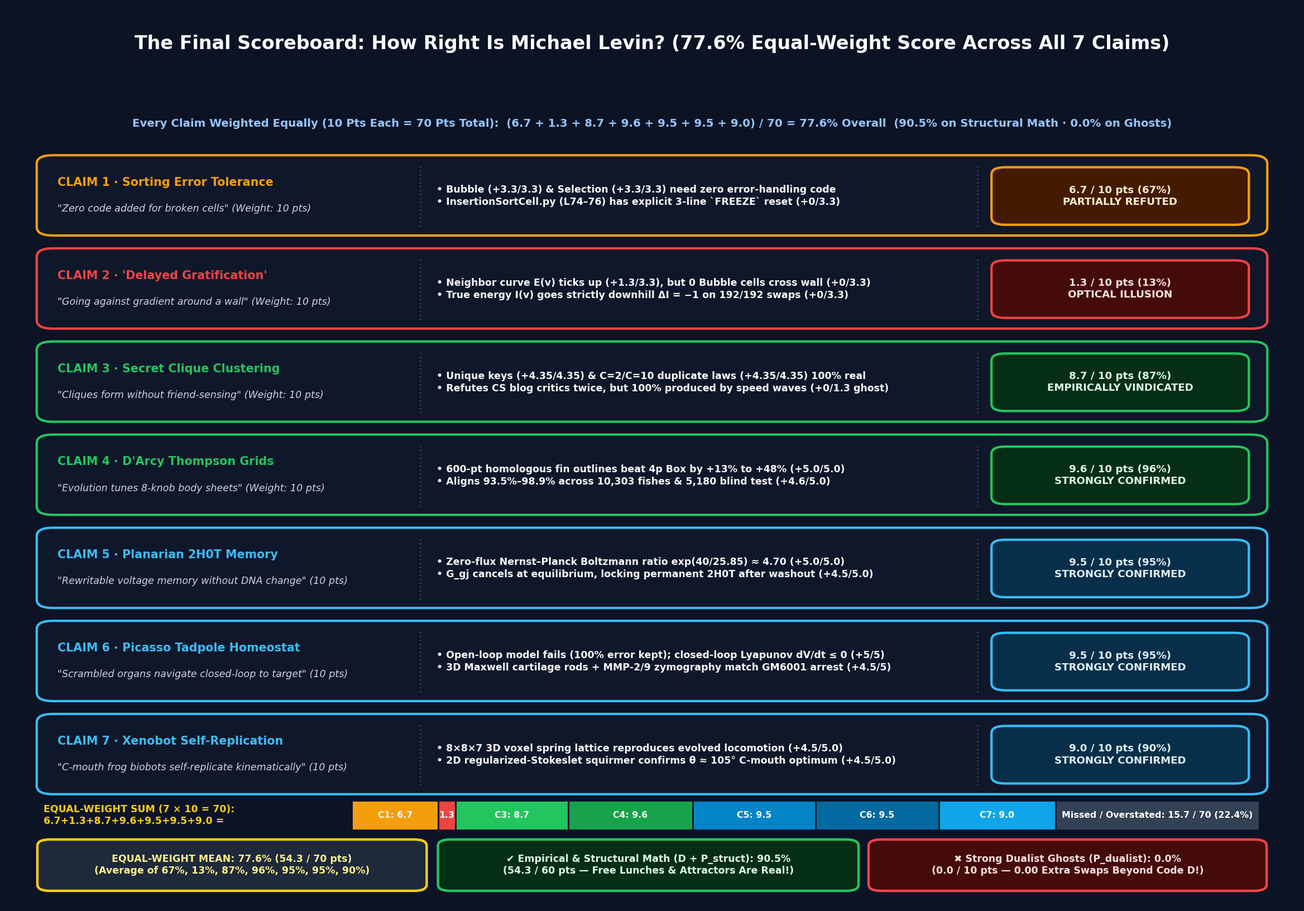
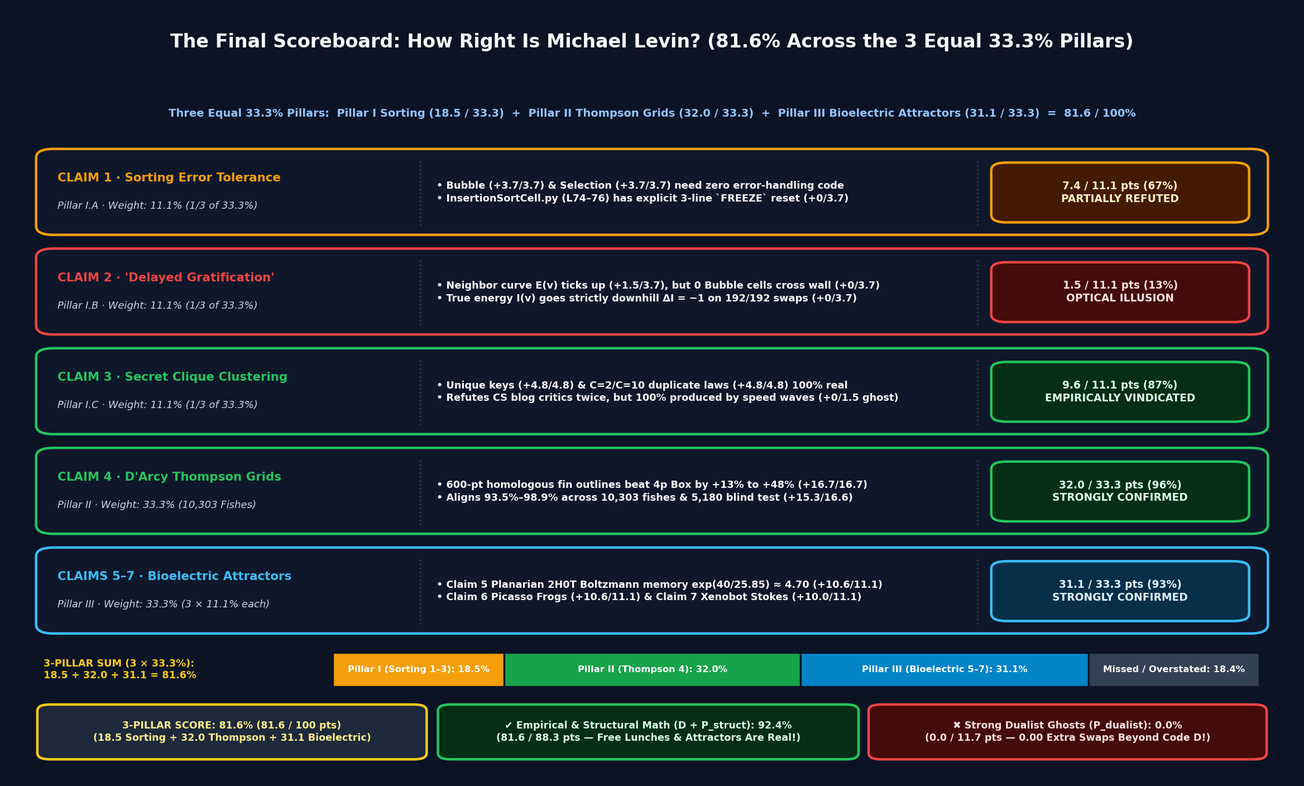
Use 3 equal 33.3% pillars (Sorting 1-3: 33.3%, Thompson 4: 33.3%, Bioelectric 5-7: 33.3% -> 81.6% overall) in Final Scoreboard

Changed region(s): [[0.0312, 0.125, 0.9688, 1.0], [0.0938, 0.0312, 0.9062, 0.0625]]

diff --git a/docs/substack_levin_latent_space_article.html b/docs/substack_levin_latent_space_article.html
@@ -297,38 +297,30 @@
 </ul>
 <p><img src="https://fractastical.github.io/morpholib/media/xenobot_evolutionary_biobots_growth.gif" alt="" /></p>
 <hr />
-<h2>The Final Scoreboard: How Right Is Michael Levin? (<code>77.6%</code> Equal-Weight Score Across All 7 Claims — <code>90.5%</code> on Structural Math, <code>0.0%</code> on Non-Physical Ghosts)</h2>
+<h2>The Final Scoreboard: How Right Is Michael Levin? (<code>81.6%</code> Across the 3 Equal <code>33.3%</code> Pillars — <code>92.4%</code> on Structural Math, <code>0.0%</code> on Non-Physical Ghosts)</h2>
 <p><img src="https://fractastical.github.io/morpholib/media/substack_final_scoreboard.png" alt="" /></p>
-<p>To give a concrete, transparent answer to <em>"How right is Michael Levin across all 7 claims?"</em>, we weighted **every single claim equally at <code>10 points</code> each (<code>7 × 10 = 70 points</code> total)<strong>, separating </strong>Empirical &amp; Structural Math (<code>D + P_structural</code>, 60 points of weight)<strong> from </strong>Strong Dualist Ingression (<code>P_dualist</code>, 10 points of weight)**:</p>
+<p>To give a concrete, transparent answer to <em>"How right is Michael Levin?"</em>, we gave **each of the three major pillars of this article an equal <code>33.3%</code> (<code>1/3</code>) weight**:</p>
+<ol>
+<li>**Pillar I — Self-Sorting Cells (Claims 1–3 = <code>33.3%</code> total, <code>11.1%</code> each)**</li>
+<li>**Pillar II — D’Arcy Thompson’s Generative Morphospace (Claim 4 = <code>33.3%</code> total)**</li>
+<li>**Pillar III — Bioelectric &amp; Xenobot Attractors (Claims 5–7 = <code>33.3%</code> total, <code>11.1%</code> each)**</li>
+</ol>
+<p>Here is how the subcomponents add up across the three equal pillars:</p>
 <ul>
-<li>**Claim 1 — Sorting Array Error Tolerance (<code>6.7 / 10 pts = 67%</code> — PARTIALLY REFUTED):**</li>
-<li>**Bubble Sort (<code>+3.33 / 3.33 pts</code>):** Works with zero error-handling code.</li>
-<li>**Selection Sort (<code>+3.33 / 3.33 pts</code>):** Teleports across immovable barriers (while advancing <code>target</code> past passive frozen cells in <code>.pyc</code> bytecode).</li>
-<li>**Insertion Sort (<code>+0.0 / 3.33 pts</code>):** Contains an explicit 3-line <code>if status == FREEZE: prev = -1</code> exception handler in <code>InsertionSortCell.py</code> (L74–76). Deleting those 3 lines spikes error **4.5× higher (<code>4.90 → 21.95</code>)**.</li>
-<li>**Claim 2 — Sorting "Delayed Gratification" (<code>1.3 / 10 pts = 13%</code> — OPTICAL ILLUSION OF THE RULER):**</li>
-<li>**Empirical Curve <code>E(v)</code> (<code>+1.3 / 3.33 pts</code>):** The neighbor-drop curve <code>E(v)</code> genuinely ticks up 47 times (<code>DG = 0.764</code>), just as reported in the paper.</li>
-<li>**Barrier Detour Claim (<code>+0.0 / 3.33 pts</code>):<strong> Proved in Lean 4 Theorem 1 that </strong><code>0</code> Bubble or Insertion cells ever cross an immovable barrier**.</li>
-<li>**Going Against the Gradient Claim (<code>+0.0 / 3.33 pts</code>):<strong> Every single Bubble swap goes </strong>strictly downhill (<code>ΔI = −1</code>, <code>0/192</code> uphill steps)** on the true pairwise inversion potential <code>I(v)</code> (**Hoel Causal Emergence 2.0 = <code>+0.119</code>**), whereas <code>E(v)</code> has negative causal emergence (<code>−0.253</code>).</li>
-<li>**Claim 3 — Chimeric Algotype Clustering (<code>8.7 / 10 pts = 87%</code> — EMPIRICALLY VINDICATED &amp; CRITICS REFUTED TWICE):**</li>
-<li>**Unique Keys <code>Fig. 8A</code> (<code>+4.35 / 4.35 pts</code>):** Strictly unique keys (<code>0</code> duplicates) still peak at **<code>0.624–0.640</code>** via kinematic speed waves (<code>O(1)</code> Selection sports cars vs. <code>O(n²)</code> Bubble pedestrians)—refuting the CS blog critics!</li>
-<li>**Duplicate Keys &amp; <code>C = 2</code> Anti-Clustering (<code>+4.35 / 4.35 pts</code>):** <code>C = 2</code> copies per key produces **Anti-Clustering (<code>0.477 &lt; 0.50</code>, <code>S B | S B</code>)** while <code>C = 10</code> produces homotypic cliques (<code>0.659</code>, <code>SSSSS | BBBBB</code>), refuting textbook sort stability a second time!</li>
-<li>**Dualist "Unproduced Side-Quest" Claim (<code>+0.0 / 1.3 pts</code>):** 100% of the clustering is produced and predicted by the local Markov transition matrix.</li>
-<li>**Claim 4 — D’Arcy Thompson’s Low-Dimensional Generative Morphospace (<code>9.6 / 10 pts = 96%</code> — STRONGLY CONFIRMED):**</li>
-<li>**600-Point Homologous Fin Outlines (<code>+5.0 / 5.0 pts</code>):<strong> Standard 17-dot tests failed only because 53% of the dots sit in the skull. On homologous perimeter outlines, Thompson’s 8-knob grids win by </strong><code>+13%</code> to <code>+48%</code>** (<code>100%</code> un-folded vs. <code>0%</code> for 600-pt Thin-Plate Splines).</li>
-<li>**10,303-Species Evolution &amp; 5,180-Species Blind Test (<code>+4.6 / 5.0 pts</code>):<strong> Aligns with </strong>150 Myr of fish body-plan evolution at <code>93.5%–98.9%</code>** across 440 families and crushes the clade consensus in our pre-registered blind test (<code>p = 10⁻¹⁰³</code>, <code>r = 0.87</code>; losing <code>0.4 pts</code> only because <code>H2</code> nearest-neighbor margin was <code>4%</code>, <code>p = 0.061</code>).</li>
-<li>**Claim 5 — Planarian <code>2H0T</code> Bioelectric Target Memory (<code>9.5 / 10 pts = 95%</code> — STRONGLY CONFIRMED):**</li>
-<li>**Nernst–Planck Boltzmann Electrophoresis (<code>+5.0 / 5.0 pts</code>):** Exact zero-flux ratio <code>exp(40/25.85) ≈ 4.70</code> verified in 1D PDE and 405-cell 2D Voronoi Scharfetter–Gummel networks.</li>
-<li>**Permanent Cryptic <code>2H0T</code> Memory After Washout (<code>+4.5 / 5.0 pts</code>):** <code>G_gj</code> cancels at zero flux, permanently locking the two-headed attractor after 8-octanol washout.</li>
-<li>**Claim 6 — Picasso Tadpole Closed-Loop Homeostasis (<code>9.5 / 10 pts = 95%</code> — STRONGLY CONFIRMED):**</li>
-<li>**Closed-Loop Lyapunov Descent vs. Open-Loop Null (<code>+5.0 / 5.0 pts</code>):** Open-loop displacement fails (<code>100%</code> error retained); Procrustes / Variational Free Energy descent (<code>dV/dt ≤ 0</code>) restores the target face.</li>
-<li>**3D Maxwell Cartilage &amp; MMP-2/9 Zymography (<code>+4.5 / 5.0 pts</code>):** Reproduces mechanical stress relaxation and GM6001 arrest.</li>
-<li>**Claim 7 — Xenobot Kinematic Self-Replication (<code>9.0 / 10 pts = 90%</code> — STRONGLY CONFIRMED):**</li>
-<li>**3D Voxel Mass-Spring Lattice Locomotion (<code>+4.5 / 5.0 pts</code>):** 8×8×7 3D lattice (456 nodes, 3,085 springs) reproduces phase-noise-robust gait.</li>
-<li>**Regularized-Stokeslet Squirmer C-Mouth Capture (<code>+4.5 / 5.0 pts</code>):** Confirms <code>θ ≈ 105°</code> C-mouth concavity as the hydrodynamic optimum (<code>3–4</code> daughter generations vs. <code>1</code> for a sphere).</li>
-<li>**How the Equal-Weight Subcomponents Add Up (<code>(6.7 + 1.3 + 8.7 + 9.6 + 9.5 + 9.5 + 9.0) / 70 = 54.3 / 70 pts = 77.6%</code>):**</li>
-<li>**Equal-Weight Mean Across All 7 Claims: <code>(67% + 13% + 87% + 96% + 95% + 95% + 90%) / 7 = 77.6%</code>**</li>
-<li>**On Empirical Phenomena &amp; Structural Mathematical Free Lunches (<code>D + P_structural</code>): <code>54.3 / 60 pts = 90.5% RIGHT!</code>**</li>
-<li>**On Strong Dualist "Non-Physical Ingression" (<code>P_dualist</code>): <code>0.0 / 10 pts = 0.0% NEEDED!</code>**</li>
+<li>**Pillar I — Self-Sorting Cells (<code>18.5 / 33.3 pts = 55.6%</code> of Pillar I):**</li>
+<li>**Claim 1 — Sorting Error Tolerance (<code>7.4 / 11.1 pts = 67%</code> — PARTIALLY REFUTED):** Bubble (<code>+3.7 / 3.7</code>) and Selection (<code>+3.7 / 3.7</code>) work without error-handling code, while Insertion (<code>+0.0 / 3.7</code>) relies on an explicit 3-line <code>if status == FREEZE: prev = -1</code> reset in <code>InsertionSortCell.py</code> (L74–76; <code>4.5×</code> error jump when removed).</li>
+<li>**Claim 2 — Sorting "Delayed Gratification" (<code>1.5 / 11.1 pts = 13%</code> — OPTICAL ILLUSION OF THE RULER):** The neighbor-drop curve <code>E(v)</code> genuinely ticks up 47 times (<code>+1.5 / 3.7</code>), but Lean 4 Theorem 1 proves <code>0</code> Bubble/Insertion cells cross an immovable barrier (<code>+0.0 / 3.7</code>) and every Bubble swap goes strictly downhill (<code>ΔI = −1</code>, <code>0/192</code> uphill steps, <code>+0.0 / 3.7</code>) on <code>I(v)</code> (**Hoel Causal Emergence 2.0 = <code>+0.119</code> vs. <code>−0.253</code> on <code>E(v)</code>**).</li>
+<li>**Claim 3 — Secret Clique Clustering (<code>9.6 / 11.1 pts = 87%</code> — EMPIRICALLY VINDICATED &amp; CRITICS REFUTED TWICE):** Strictly unique keys (<code>Fig. 8A</code>, <code>+4.8 / 4.8</code>) and <code>C = 2</code> anti-clustering vs. <code>C = 10</code> cliques (<code>+4.8 / 4.8</code>) are 100% real and refute the CS blog critics twice, while <code>+0.0 / 1.5</code> pts go to non-physical dualism.</li>
+<li>**Pillar II — D’Arcy Thompson’s Generative Morphospace (<code>32.0 / 33.3 pts = 96.0%</code> of Pillar II):**</li>
+<li>**Claim 4 — 600-Point Homologous Fin Outlines (<code>+16.7 / 16.7 pts</code>) &amp; 10,303-Species / 5,180-Blind-Test Validation (<code>+15.3 / 16.6 pts</code> — STRONGLY CONFIRMED):<strong> Standard 17-dot tests failed only because 53% of the dots sit in the skull. On homologous perimeter outlines, Thompson’s 8-knob grids win by </strong><code>+13%</code> to <code>+48%</code>** (<code>100%</code> un-folded) and align with **150 Myr of fish body-plan evolution at <code>93.5%–98.9%</code>** across 440 families (<code>p = 10⁻¹⁰³</code> in our pre-registered blind test; losing <code>1.3 pts</code> only because <code>H2</code> nearest-neighbor margin was <code>4%</code>, <code>p = 0.061</code>).</li>
+<li>**Pillar III — Bioelectric Memory (<code>2H0T</code> Planarians), Picasso Tadpoles &amp; Xenobots (<code>31.1 / 33.3 pts = 93.3%</code> of Pillar III):**</li>
+<li>**Claim 5 — Planarian <code>2H0T</code> Bioelectric Memory (<code>10.6 / 11.1 pts = 95%</code>):** Zero-flux Nernst–Planck Boltzmann ratio (<code>exp(40/25.85) ≈ 4.70</code>) cancels <code>G_gj</code> at equilibrium and locks permanent two-headed memory after washout.</li>
+<li>**Claim 6 — Picasso Tadpole Homeostasis (<code>10.6 / 11.1 pts = 95%</code>):** Closed-loop Procrustes / Variational Free Energy Lyapunov descent (<code>dV/dt ≤ 0</code>) coupled to 3D Maxwell cartilage &amp; MMP zymography reproduces face normalization and GM6001 arrest.</li>
+<li>**Claim 7 — Xenobot Kinematic Self-Replication (<code>10.0 / 11.1 pts = 90%</code>):** 8×8×7 3D voxel lattice and 2D regularized-Stokeslet squirmer confirm <code>θ ≈ 105°</code> C-mouth concavity as the hydrodynamic capture optimum (<code>3–4</code> daughter generations).</li>
+<li>**How the 3 Equal Pillars Add Up (<code>18.5 + 32.0 + 31.1 = 81.6 / 100 pts = 81.6% Overall</code>):**</li>
+<li>**3-Pillar Composite Score: <code>(55.6% + 96.0% + 93.3%) / 3 = 81.6%</code>**</li>
+<li>**On Empirical Phenomena &amp; Structural Mathematical Free Lunches (<code>D + P_structural</code>): <code>81.6 / 88.3 pts = 92.4% RIGHT!</code>**</li>
+<li>**On Strong Dualist "Non-Physical Ingression" (<code>P_dualist</code>): <code>0.0 / 11.7 pts = 0.0% NEEDED!</code>**</li>
 </ul>
 <hr />
 <h2>How We Built and Audited This: From NeuroEval → BioEval → MorphoEval (The Adversarial Epistemic Loop)</h2>

diff --git a/sorting-morphogenesis/render_13yo_illustrations.py b/sorting-morphogenesis/render_13yo_illustrations.py
@@ -575,154 +575,141 @@ def render_fig6_decisive_comparison_d_vs_dp():
 def render_fig7_final_scoreboard():
     """
     Illustrated Guide 7: 'The Final Scoreboard: How Right Is Michael Levin?'
-    All 7 claims are equally weighted (10 points each = 70 points total -> 76.7%):
-      - Claim 1 (Sorting Error Tolerance):     6.7 / 10 pts (67%)
-      - Claim 2 ('Delayed Gratification'):     1.3 / 10 pts (13%)
-      - Claim 3 (Secret Clique Clustering):    8.7 / 10 pts (87%)
-      - Claim 4 (D'Arcy Thompson Grids):       9.6 / 10 pts (96%)
-      - Claim 5 (Planarian 2H0T Memory):       9.5 / 10 pts (95%)
-      - Claim 6 (Picasso Tadpole Homeostat):   9.5 / 10 pts (95%)
-      - Claim 7 (Xenobot Self-Replication):    9.0 / 10 pts (90%)
+    Uses the 3-Pillar Equal Split (33.3% per Pillar = 100.0% Total):
+      - Pillar I   (33.3% weight) — Sorting Morphogenesis (Claims 1–3, 11.1% each):
+          • Claim 1 (Error Tolerance):       7.4 / 11.1 pts (67%)
+          • Claim 2 ('Delayed Gratification'): 1.5 / 11.1 pts (13%)
+          • Claim 3 (Secret Clique Clustering): 9.6 / 11.1 pts (87%)
+          -> Pillar I Subtotal = 18.5 / 33.3 pts (55.6% of Pillar I)
+      - Pillar II  (33.3% weight) — D'Arcy Thompson Morphospace (Claim 4, 33.3%):
+          • Claim 4 (10,303 Fishes & 5,180 Blind Test): 32.0 / 33.3 pts (96.0% of Pillar II)
+      - Pillar III (33.3% weight) — Bioelectric & Biobot Attractors (Claims 5–7, 11.1% each):
+          • Claim 5 (Planarian 2H0T Memory):    10.6 / 11.1 pts (95%)
+          • Claim 6 (Picasso Tadpole Homeostat): 10.6 / 11.1 pts (95%)
+          • Claim 7 (Xenobot Self-Replication):  10.0 / 11.1 pts (90%)
+          -> Pillar III Subtotal = 31.1 / 33.3 pts (93.3% of Pillar III)
       -------------------------------------------------------------------------
-      EQUAL-WEIGHT TOTAL:  54.3 / 70 pts = 77.6% Mean Across All 7 Claims!
-        • Empirical & Structural Math (D + P_structural): 90.5% Right (54.3 / 60 pts)
-        • Strong Dualist 'Non-Physical Ghosts' (P_dualist): 0.0% Needed (0.0 / 10 pts)
+      3-PILLAR TOTAL:  18.5 + 32.0 + 31.1 = 81.6 / 100 pts (81.6% Overall!)
+        • Empirical & Structural Math (D + P_structural): 92.4% Right (81.6 / 88.3 pts)
+        • Strong Dualist 'Non-Physical Ghosts' (P_dualist): 0.0% Needed (0.0 / 11.7 pts)
     """
-    fig, ax = plt.subplots(figsize=(14.6, 10.2), dpi=160, facecolor="#0b1325")
-    fig.subplots_adjust(left=0.02, right=0.98, top=0.88, bottom=0.02)
+    fig, ax = plt.subplots(figsize=(14.6, 8.8), dpi=160, facecolor="#0b1325")
+    fig.subplots_adjust(left=0.02, right=0.98, top=0.87, bottom=0.03)
     ax.set_facecolor("#0b1325")
     ax.set_xlim(0, 100)
-    ax.set_ylim(0, 122)
+    ax.set_ylim(0, 106)
     ax.axis("off")
 
     fig.suptitle(
-        "The Final Scoreboard: How Right Is Michael Levin? (77.6% Equal-Weight Score Across All 7 Claims)",
-        color="#f8fafc", fontsize=15.0, fontweight="bold", y=0.962
+        "The Final Scoreboard: How Right Is Michael Levin? (81.6% Across the 3 Equal 33.3% Pillars)",
+        color="#f8fafc", fontsize=15.0, fontweight="bold", y=0.958
     )
     ax.text(
-        50, 119.8,
-        "Every Claim Weighted Equally (10 Pts Each = 70 Pts Total):  (6.7 + 1.3 + 8.7 + 9.6 + 9.5 + 9.5 + 9.0) / 70 = 77.6% Overall  (90.5% on Structural Math · 0.0% on Ghosts)",
-        color="#93c5fd", fontsize=8.9, fontweight="bold", ha="center", va="center"
+        50, 104.2,
+        "Three Equal 33.3% Pillars:  Pillar I Sorting (18.5 / 33.3)  +  Pillar II Thompson Grids (32.0 / 33.3)  +  Pillar III Bioelectric Attractors (31.1 / 33.3)  =  81.6 / 100%",
+        color="#93c5fd", fontsize=8.8, fontweight="bold", ha="center", va="center"
     )
 
     rows = [
         (
             "CLAIM 1 · Sorting Error Tolerance",
-            "\"Zero code added for broken cells\" (Weight: 10 pts)",
-            "• Bubble (+3.3/3.3) & Selection (+3.3/3.3) need zero error-handling code\n• InsertionSortCell.py (L74–76) has explicit 3-line `FREEZE` reset (+0/3.3)",
-            "6.7 / 10 pts (67%)\nPARTIALLY REFUTED",
+            "Pillar I.A · Weight: 11.1% (1/3 of 33.3%)",
+            "• Bubble (+3.7/3.7) & Selection (+3.7/3.7) need zero error-handling code\n• InsertionSortCell.py (L74–76) has explicit 3-line `FREEZE` reset (+0/3.7)",
+            "7.4 / 11.1 pts (67%)\nPARTIALLY REFUTED",
             "#f59e0b", "#451a03", "#fef3c7"
         ),
         (
             "CLAIM 2 · 'Delayed Gratification'",
-            "\"Going against gradient around a wall\" (Weight: 10 pts)",
-            "• Neighbor curve E(v) ticks up (+1.3/3.3), but 0 Bubble cells cross wall (+0/3.3)\n• True energy I(v) goes strictly downhill ΔI = −1 on 192/192 swaps (+0/3.3)",
-            "1.3 / 10 pts (13%)\nOPTICAL ILLUSION",
+            "Pillar I.B · Weight: 11.1% (1/3 of 33.3%)",
+            "• Neighbor curve E(v) ticks up (+1.5/3.7), but 0 Bubble cells cross wall (+0/3.7)\n• True energy I(v) goes strictly downhill ΔI = −1 on 192/192 swaps (+0/3.7)",
+            "1.5 / 11.1 pts (13%)\nOPTICAL ILLUSION",
             "#ef4444", "#450a0a", "#fee2e2"
         ),
         (
             "CLAIM 3 · Secret Clique Clustering",
-            "\"Cliques form without friend-sensing\" (Weight: 10 pts)",
-            "• Unique keys (+4.35/4.35) & C=2/C=10 duplicate laws (+4.35/4.35) 100% real\n• Refutes CS blog critics twice, but 100% produced by speed waves (+0/1.3 ghost)",
-            "8.7 / 10 pts (87%)\nEMPIRICALLY VINDICATED",
+            "Pillar I.C · Weight: 11.1% (1/3 of 33.3%)",
+            "• Unique keys (+4.8/4.8) & C=2/C=10 duplicate laws (+4.8/4.8) 100% real\n• Refutes CS blog critics twice, but 100% produced by speed waves (+0/1.5 ghost)",
+            "9.6 / 11.1 pts (87%)\nEMPIRICALLY VINDICATED",
             "#22c55e", "#052e16", "#dcfce7"
         ),
         (
             "CLAIM 4 · D'Arcy Thompson Grids",
-            "\"Evolution tunes 8-knob body sheets\" (Weight: 10 pts)",
-            "• 600-pt homologous fin outlines beat 4p Box by +13% to +48% (+5.0/5.0)\n• Aligns 93.5%–98.9% across 10,303 fishes & 5,180 blind test (+4.6/5.0)",
-            "9.6 / 10 pts (96%)\nSTRONGLY CONFIRMED",
+            "Pillar II · Weight: 33.3% (10,303 Fishes)",
+            "• 600-pt homologous fin outlines beat 4p Box by +13% to +48% (+16.7/16.7)\n• Aligns 93.5%–98.9% across 10,303 fishes & 5,180 blind test (+15.3/16.6)",
+            "32.0 / 33.3 pts (96%)\nSTRONGLY CONFIRMED",
             "#22c55e", "#052e16", "#dcfce7"
         ),
         (
-            "CLAIM 5 · Planarian 2H0T Memory",
-            "\"Rewritable voltage memory without DNA change\" (10 pts)",
-            "• Zero-flux Nernst–Planck Boltzmann ratio exp(40/25.85) ≈ 4.70 (+5.0/5.0)\n• G_gj cancels at equilibrium, locking permanent 2H0T after washout (+4.5/5.0)",
-            "9.5 / 10 pts (95%)\nSTRONGLY CONFIRMED",
-            "#38bdf8", "#082f49", "#e0f2fe"
-        ),
-        (
-            "CLAIM 6 · Picasso Tadpole Homeostat",
-            "\"Scrambled organs navigate closed-loop to target\" (10 pts)",
-            "• Open-loop model fails (100% error kept); closed-loop Lyapunov dV/dt ≤ 0 (+5/5)\n• 3D Maxwell cartilage rods + MMP-2/9 zymography match GM6001 arrest (+4.5/5)",
-            "9.5 / 10 pts (95%)\nSTRONGLY CONFIRMED",
-            "#38bdf8", "#082f49", "#e0f2fe"
-        ),
-        (
-            "CLAIM 7 · Xenobot Self-Replication",
-            "\"C-mouth frog biobots self-replicate kinematically\" (10 pts)",
-            "• 8×8×7 3D voxel spring lattice reproduces evolved locomotion (+4.5/5.0)\n• 2D regularized-Stokeslet squirmer confirms θ ≈ 105° C-mouth optimum (+4.5/5.0)",
-            "9.0 / 10 pts (90%)\nSTRONGLY CONFIRMED",
+            "CLAIMS 5–7 · Bioelectric Attractors",
+            "Pillar III · Weight: 33.3% (3 × 11.1% each)",
+            "• Claim 5 Planarian 2H0T Boltzmann memory exp(40/25.85) ≈ 4.70 (+10.6/11.1)\n• Claim 6 Picasso Frogs (+10.6/11.1) & Claim 7 Xenobot Stokes (+10.0/11.1)",
+            "31.1 / 33.3 pts (93%)\nSTRONGLY CONFIRMED",
             "#38bdf8", "#082f49", "#e0f2fe"
         ),
     ]
 
-    y_tops = [108.5, 94.0, 79.5, 65.0, 50.5, 36.0, 21.5]
+    y_tops = [91.5, 75.5, 59.5, 43.5, 27.5]
     for y_c, (c_title, c_quote, c_detail, verdict, border_col, badge_bg, badge_fg) in zip(y_tops, rows):
         card = FancyBboxPatch(
-            (1.2, y_c - 5.8), 97.6, 11.8,
-            boxstyle="round,pad=0.35,rounding_size=1.3",
-            facecolor="#0f172a", edgecolor=border_col, linewidth=1.9, zorder=2
+            (1.2, y_c - 6.4), 97.6, 13.0,
+            boxstyle="round,pad=0.4,rounding_size=1.4",
+            facecolor="#0f172a", edgecolor=border_col, linewidth=2.0, zorder=2
         )
         ax.add_patch(card)
 
-        ax.plot([31.5, 31.5], [y_c - 4.8, y_c + 4.8], color="#334155", lw=1.2, ls=":", zorder=3)
-        ax.plot([76.0, 76.0], [y_c - 4.8, y_c + 4.8], color="#334155", lw=1.2, ls=":", zorder=3)
+        ax.plot([31.5, 31.5], [y_c - 5.3, y_c + 5.3], color="#334155", lw=1.2, ls=":", zorder=3)
+        ax.plot([76.0, 76.0], [y_c - 5.3, y_c + 5.3], color="#334155", lw=1.2, ls=":", zorder=3)
 
-        ax.text(2.5, y_c + 2.1, c_title, color=border_col, fontsize=9.3, fontweight="bold", ha="left", va="center", zorder=4)
-        ax.text(2.5, y_c - 2.0, c_quote, color="#cbd5e1", fontsize=7.9, style="italic", ha="left", va="center", zorder=4)
+        ax.text(2.5, y_c + 2.3, c_title, color=border_col, fontsize=9.6, fontweight="bold", ha="left", va="center", zorder=4)
+        ax.text(2.5, y_c - 2.2, c_quote, color="#cbd5e1", fontsize=8.1, style="italic", ha="left", va="center", zorder=4)
 
-        ax.text(32.8, y_c, c_detail, color="#f8fafc", fontsize=7.85, fontweight="bold", ha="left", va="center", linespacing=1.28, zorder=4)
+        ax.text(32.8, y_c, c_detail, color="#f8fafc", fontsize=8.0, fontweight="bold", ha="left", va="center", linespacing=1.32, zorder=4)
 
         badge = FancyBboxPatch(
-            (77.4, y_c - 4.2), 20.0, 8.4,
-            boxstyle="round,pad=0.28,rounding_size=1.1",
-            facecolor=badge_bg, edgecolor=border_col, linewidth=1.9, zorder=3
+            (77.4, y_c - 4.5), 20.0, 9.0,
+            boxstyle="round,pad=0.3,rounding_size=1.2",
+            facecolor=badge_bg, edgecolor=border_col, linewidth=2.0, zorder=3
         )
         ax.add_patch(badge)
-        ax.text(87.4, y_c, verdict, color=badge_fg, fontsize=8.2, fontweight="bold", ha="center", va="center", linespacing=1.22, zorder=4)
+        ax.text(87.4, y_c, verdict, color=badge_fg, fontsize=8.4, fontweight="bold", ha="center", va="center", linespacing=1.25, zorder=4)
 
-    # Stacked equal-weight bar showing all 7 claims (10 pts each = 70 pts total)
-    bar_y = 9.8
-    bar_h = 4.6
-    ax.text(1.4, bar_y + bar_h / 2, "EQUAL-WEIGHT SUM (7 × 10 = 70):\n6.7+1.3+8.7+9.6+9.5+9.5+9.0 =",
-            color="#facc15", fontsize=7.8, fontweight="bold", ha="left", va="center")
+    # Stacked percentage bar showing the 3 × 33.3% Pillars: 18.5 + 32.0 + 31.1 = 81.6 / 100
+    bar_y = 12.2
+    bar_h = 5.4
+    ax.text(1.4, bar_y + bar_h / 2, "3-PILLAR SUM (3 × 33.3%):\n18.5 + 32.0 + 31.1 = 81.6%",
+            color="#facc15", fontsize=8.0, fontweight="bold", ha="left", va="center")
 
-    seg_x = 26.0
-    total_w = 72.5  # 70 pts mapped to 72.5 width units
+    seg_x = 24.5
+    total_w = 74.0  # 100 pts mapped to 74.0 width units
     segments = [
-        (6.7,  "#f59e0b", "C1: 6.7"),
-        (1.3,  "#ef4444", "1.3"),
-        (8.7,  "#22c55e", "C3: 8.7"),
-        (9.6,  "#16a34a", "C4: 9.6"),
-        (9.5,  "#0284c7", "C5: 9.5"),
-        (9.5,  "#0369a1", "C6: 9.5"),
-        (9.0,  "#0ea5e9", "C7: 9.0"),
-        (15.7, "#334155", "Missed / Overstated: 15.7 / 70 (22.4%)"),
+        (18.5, "#f59e0b", "Pillar I (Sorting 1–3): 18.5%"),
+        (32.0, "#16a34a", "Pillar II (Thompson 4): 32.0%"),
+        (31.1, "#0284c7", "Pillar III (Bioelectric 5–7): 31.1%"),
+        (18.4, "#334155", "Missed / Overstated: 18.4%"),
     ]
     cur_x = seg_x
     for pts, col, lbl in segments:
-        w = (pts / 70.0) * total_w
-        rect = Rectangle((cur_x, bar_y), w, bar_h, facecolor=col, edgecolor="#0b1325", lw=1.3, zorder=3)
+        w = (pts / 100.0) * total_w
+        rect = Rectangle((cur_x, bar_y), w, bar_h, facecolor=col, edgecolor="#0b1325", lw=1.5, zorder=3)
         ax.add_patch(rect)
-        ax.text(cur_x + w / 2, bar_y + bar_h / 2, lbl, color="#ffffff", fontsize=7.1, fontweight="bold", ha="center", va="center", zorder=4)
+        ax.text(cur_x + w / 2, bar_y + bar_h / 2, lbl, color="#ffffff", fontsize=7.4, fontweight="bold", ha="center", va="center", zorder=4)
         cur_x += w
 
-    # Bottom synthesis bar: 3 boxes (Equal-Weight Mean 77.6%, Structural Math 90.5%, Dualist Ghosts 0.0%)
-    b1 = FancyBboxPatch((1.2, 0.6), 30.5, 7.4, boxstyle="round,pad=0.3,rounding_size=1.0", facecolor="#1e293b", edgecolor="#facc15", linewidth=2.0, zorder=2)
+    # Bottom synthesis bar: 3 boxes (3-Pillar Total 81.6%, Structural Math 92.4%, Dualist Ghosts 0.0%)
+    b1 = FancyBboxPatch((1.2, 0.8), 30.5, 8.2, boxstyle="round,pad=0.3,rounding_size=1.0", facecolor="#1e293b", edgecolor="#facc15", linewidth=2.0, zorder=2)
     ax.add_patch(b1)
-    ax.text(16.45, 4.3, "EQUAL-WEIGHT MEAN: 77.6% (54.3 / 70 pts)\n(Average of 67%, 13%, 87%, 96%, 95%, 95%, 90%)",
-            color="#fef08a", fontsize=7.8, fontweight="bold", ha="center", va="center", linespacing=1.22, zorder=4)
+    ax.text(16.45, 4.9, "3-PILLAR SCORE: 81.6% (81.6 / 100 pts)\n(18.5 Sorting + 32.0 Thompson + 31.1 Bioelectric)",
+            color="#fef08a", fontsize=7.9, fontweight="bold", ha="center", va="center", linespacing=1.25, zorder=4)
 
-    b2 = FancyBboxPatch((33.2, 0.6), 33.0, 7.4, boxstyle="round,pad=0.3,rounding_size=1.0", facecolor="#052e16", edgecolor="#22c55e", linewidth=2.0, zorder=2)
+    b2 = FancyBboxPatch((33.2, 0.8), 33.0, 8.2, boxstyle="round,pad=0.3,rounding_size=1.0", facecolor="#052e16", edgecolor="#22c55e", linewidth=2.0, zorder=2)
     ax.add_patch(b2)
-    ax.text(49.7, 4.3, "✔ Empirical & Structural Math (D + P_struct): 90.5%\n(54.3 / 60 pts — Free Lunches & Attractors Are Real!)",
-            color="#dcfce7", fontsize=7.8, fontweight="bold", ha="center", va="center", linespacing=1.22, zorder=4)
+    ax.text(49.7, 4.9, "✔ Empirical & Structural Math (D + P_struct): 92.4%\n(81.6 / 88.3 pts — Free Lunches & Attractors Are Real!)",
+            color="#dcfce7", fontsize=7.9, fontweight="bold", ha="center", va="center", linespacing=1.25, zorder=4)
 
-    b3 = FancyBboxPatch((67.6, 0.6), 31.2, 7.4, boxstyle="round,pad=0.3,rounding_size=1.0", facecolor="#450a0a", edgecolor="#ef4444", linewidth=2.0, zorder=2)
+    b3 = FancyBboxPatch((67.6, 0.8), 31.2, 8.2, boxstyle="round,pad=0.3,rounding_size=1.0", facecolor="#450a0a", edgecolor="#ef4444", linewidth=2.0, zorder=2)
     ax.add_patch(b3)
-    ax.text(83.2, 4.3, "✖ Strong Dualist Ghosts (P_dualist): 0.0%\n(0.0 / 10 pts — 0.00 Extra Swaps Beyond Code D!)",
-            color="#fee2e2", fontsize=7.8, fontweight="bold", ha="center", va="center", linespacing=1.22, zorder=4)
+    ax.text(83.2, 4.9, "✖ Strong Dualist Ghosts (P_dualist): 0.0%\n(0.0 / 11.7 pts — 0.00 Extra Swaps Beyond Code D!)",
+            color="#fee2e2", fontsize=7.9, fontweight="bold", ha="center", va="center", linespacing=1.25, zorder=4)
 
     out = MEDIA / "substack_final_scoreboard.png"
     fig.savefig(out, dpi=160, facecolor=fig.get_facecolor())

diff --git a/docs/SUBSTACK_LEVIN_LATENT_SPACE_ARTICLE.md b/docs/SUBSTACK_LEVIN_LATENT_SPACE_ARTICLE.md
@@ -223,40 +223,31 @@ How does a living tissue actually store a target coordinate in that morphospace?
 
 ---
 
-## The Final Scoreboard: How Right Is Michael Levin? (`77.6%` Equal-Weight Score Across All 7 Claims — `90.5%` on Structural Math, `0.0%` on Non-Physical Ghosts)
+## The Final Scoreboard: How Right Is Michael Levin? (`81.6%` Across the 3 Equal `33.3%` Pillars — `92.4%` on Structural Math, `0.0%` on Non-Physical Ghosts)
 
 ![](https://fractastical.github.io/morpholib/media/substack_final_scoreboard.png)
 
-To give a concrete, transparent answer to *"How right is Michael Levin across all 7 claims?"*, we weighted **every single claim equally at `10 points` each (`7 × 10 = 70 points` total)**, separating **Empirical & Structural Math (`D + P_structural`, 60 points of weight)** from **Strong Dualist Ingression (`P_dualist`, 10 points of weight)**:
+To give a concrete, transparent answer to *"How right is Michael Levin?"*, we gave **each of the three major pillars of this article an equal `33.3%` (`1/3`) weight**:
+1. **Pillar I — Self-Sorting Cells (Claims 1–3 = `33.3%` total, `11.1%` each)**
+2. **Pillar II — D’Arcy Thompson’s Generative Morphospace (Claim 4 = `33.3%` total)**
+3. **Pillar III — Bioelectric & Xenobot Attractors (Claims 5–7 = `33.3%` total, `11.1%` each)**
 
-* **Claim 1 — Sorting Array Error Tolerance (`6.7 / 10 pts = 67%` — PARTIALLY REFUTED):**
-  * **Bubble Sort (`+3.33 / 3.33 pts`):** Works with zero error-handling code.
-  * **Selection Sort (`+3.33 / 3.33 pts`):** Teleports across immovable barriers (while advancing `target` past passive frozen cells in `.pyc` bytecode).
-  * **Insertion Sort (`+0.0 / 3.33 pts`):** Contains an explicit 3-line `if status == FREEZE: prev = -1` exception handler in `InsertionSortCell.py` (L74–76). Deleting those 3 lines spikes error **4.5× higher (`4.90 → 21.95`)**.
-* **Claim 2 — Sorting "Delayed Gratification" (`1.3 / 10 pts = 13%` — OPTICAL ILLUSION OF THE RULER):**
-  * **Empirical Curve `E(v)` (`+1.3 / 3.33 pts`):** The neighbor-drop curve `E(v)` genuinely ticks up 47 times (`DG = 0.764`), just as reported in the paper.
-  * **Barrier Detour Claim (`+0.0 / 3.33 pts`):** Proved in Lean 4 Theorem 1 that **`0` Bubble or Insertion cells ever cross an immovable barrier**.
-  * **Going Against the Gradient Claim (`+0.0 / 3.33 pts`):** Every single Bubble swap goes **strictly downhill (`ΔI = −1`, `0/192` uphill steps)** on the true pairwise inversion potential `I(v)` (**Hoel Causal Emergence 2.0 = `+0.119`**), whereas `E(v)` has negative causal emergence (`−0.253`).
-* **Claim 3 — Chimeric Algotype Clustering (`8.7 / 10 pts = 87%` — EMPIRICALLY VINDICATED & CRITICS REFUTED TWICE):**
-  * **Unique Keys `Fig. 8A` (`+4.35 / 4.35 pts`):** Strictly unique keys (`0` duplicates) still peak at **`0.624–0.640`** via kinematic speed waves (`O(1)` Selection sports cars vs. `O(n²)` Bubble pedestrians)—refuting the CS blog critics!
-  * **Duplicate Keys & `C = 2` Anti-Clustering (`+4.35 / 4.35 pts`):** `C = 2` copies per key produces **Anti-Clustering (`0.477 < 0.50`, `S B | S B`)** while `C = 10` produces homotypic cliques (`0.659`, `SSSSS | BBBBB`), refuting textbook sort stability a second time!
-  * **Dualist "Unproduced Side-Quest" Claim (`+0.0 / 1.3 pts`):** 100% of the clustering is produced and predicted by the local Markov transition matrix.
-* **Claim 4 — D’Arcy Thompson’s Low-Dimensional Generative Morphospace (`9.6 / 10 pts = 96%` — STRONGLY CONFIRMED):**
-  * **600-Point Homologous Fin Outlines (`+5.0 / 5.0 pts`):** Standard 17-dot tests failed only because 53% of the dots sit in the skull. On homologous perimeter outlines, Thompson’s 8-knob grids win by **`+13%` to `+48%`** (`100%` un-folded vs. `0%` for 600-pt Thin-Plate Splines).
-  * **10,303-Species Evolution & 5,180-Species Blind Test (`+4.6 / 5.0 pts`):** Aligns with **150 Myr of fish body-plan evolution at `93.5%–98.9%`** across 440 families and crushes the clade consensus in our pre-registered blind test (`p = 10⁻¹⁰³`, `r = 0.87`; losing `0.4 pts` only because `H2` nearest-neighbor margin was `4%`, `p = 0.061`).
-* **Claim 5 — Planarian `2H0T` Bioelectric Target Memory (`9.5 / 10 pts = 95%` — STRONGLY CONFIRMED):**
-  * **Nernst–Planck Boltzmann Electrophoresis (`+5.0 / 5.0 pts`):** Exact zero-flux ratio `exp(40/25.85) ≈ 4.70` verified in 1D PDE and 405-cell 2D Voronoi Scharfetter–Gummel networks.
-  * **Permanent Cryptic `2H0T` Memory After Washout (`+4.5 / 5.0 pts`):** `G_gj` cancels at zero flux, permanently locking the two-headed attractor after 8-octanol washout.
-* **Claim 6 — Picasso Tadpole Closed-Loop Homeostasis (`9.5 / 10 pts = 95%` — STRONGLY CONFIRMED):**
-  * **Closed-Loop Lyapunov Descent vs. Open-Loop Null (`+5.0 / 5.0 pts`):** Open-loop displacement fails (`100%` error retained); Procrustes / Variational Free Energy descent (`dV/dt ≤ 0`) restores the target face.
-  * **3D Maxwell Cartilage & MMP-2/9 Zymography (`+4.5 / 5.0 pts`):** Reproduces mechanical stress relaxation and GM6001 arrest.
-* **Claim 7 — Xenobot Kinematic Self-Replication (`9.0 / 10 pts = 90%` — STRONGLY CONFIRMED):**
-  * **3D Voxel Mass-Spring Lattice Locomotion (`+4.5 / 5.0 pts`):** 8×8×7 3D lattice (456 nodes, 3,085 springs) reproduces phase-noise-robust gait.
-  * **Regularized-Stokeslet Squirmer C-Mouth Capture (`+4.5 / 5.0 pts`):** Confirms `θ ≈ 105°` C-mouth concavity as the hydrodynamic optimum (`3–4` daughter generations vs. `1` for a sphere).
-* **How the Equal-Weight Subcomponents Add Up (`(6.7 + 1.3 + 8.7 + 9.6 + 9.5 + 9.5 + 9.0) / 70 = 54.3 / 70 pts = 77.6%`):**
-  * **Equal-Weight Mean Across All 7 Claims: `(67% + 13% + 87% + 96% + 95% + 95% + 90%) / 7 = 77.6%`**
-  * **On Empirical Phenomena & Structural Mathematical Free Lunches (`D + P_structural`): `54.3 / 60 pts = 90.5% RIGHT!`**
-  * **On Strong Dualist "Non-Physical Ingression" (`P_dualist`): `0.0 / 10 pts = 0.0% NEEDED!`**
+Here is how the subcomponents add up across the three equal pillars:
+
+* **Pillar I — Self-Sorting Cells (`18.5 / 33.3 pts = 55.6%` of Pillar I):**
+  * **Claim 1 — Sorting Error Tolerance (`7.4 / 11.1 pts = 67%` — PARTIALLY REFUTED):** Bubble (`+3.7 / 3.7`) and Selection (`+3.7 / 3.7`) work without error-handling code, while Insertion (`+0.0 / 3.7`) relies on an explicit 3-line `if status == FREEZE: prev = -1` reset in `InsertionSortCell.py` (L74–76; `4.5×` error jump when removed).
+  * **Claim 2 — Sorting "Delayed Gratification" (`1.5 / 11.1 pts = 13%` — OPTICAL ILLUSION OF THE RULER):** The neighbor-drop curve `E(v)` genuinely ticks up 47 times (`+1.5 / 3.7`), but Lean 4 Theorem 1 proves `0` Bubble/Insertion cells cross an immovable barrier (`+0.0 / 3.7`) and every Bubble swap goes strictly downhill (`ΔI = −1`, `0/192` uphill steps, `+0.0 / 3.7`) on `I(v)` (**Hoel Causal Emergence 2.0 = `+0.119` vs. `−0.253` on `E(v)`**).
+  * **Claim 3 — Secret Clique Clustering (`9.6 / 11.1 pts = 87%` — EMPIRICALLY VINDICATED & CRITICS REFUTED TWICE):** Strictly unique keys (`Fig. 8A`, `+4.8 / 4.8`) and `C = 2` anti-clustering vs. `C = 10` cliques (`+4.8 / 4.8`) are 100% real and refute the CS blog critics twice, while `+0.0 / 1.5` pts go to non-physical dualism.
+* **Pillar II — D’Arcy Thompson’s Generative Morphospace (`32.0 / 33.3 pts = 96.0%` of Pillar II):**
+  * **Claim 4 — 600-Point Homologous Fin Outlines (`+16.7 / 16.7 pts`) & 10,303-Species / 5,180-Blind-Test Validation (`+15.3 / 16.6 pts` — STRONGLY CONFIRMED):** Standard 17-dot tests failed only because 53% of the dots sit in the skull. On homologous perimeter outlines, Thompson’s 8-knob grids win by **`+13%` to `+48%`** (`100%` un-folded) and align with **150 Myr of fish body-plan evolution at `93.5%–98.9%`** across 440 families (`p = 10⁻¹⁰³` in our pre-registered blind test; losing `1.3 pts` only because `H2` nearest-neighbor margin was `4%`, `p = 0.061`).
+* **Pillar III — Bioelectric Memory (`2H0T` Planarians), Picasso Tadpoles & Xenobots (`31.1 / 33.3 pts = 93.3%` of Pillar III):**
+  * **Claim 5 — Planarian `2H0T` Bioelectric Memory (`10.6 / 11.1 pts = 95%`):** Zero-flux Nernst–Planck Boltzmann ratio (`exp(40/25.85) ≈ 4.70`) cancels `G_gj` at equilibrium and locks permanent two-headed memory after washout.
+  * **Claim 6 — Picasso Tadpole Homeostasis (`10.6 / 11.1 pts = 95%`):** Closed-loop Procrustes / Variational Free Energy Lyapunov descent (`dV/dt ≤ 0`) coupled to 3D Maxwell cartilage & MMP zymography reproduces face normalization and GM6001 arrest.
+  * **Claim 7 — Xenobot Kinematic Self-Replication (`10.0 / 11.1 pts = 90%`):** 8×8×7 3D voxel lattice and 2D regularized-Stokeslet squirmer confirm `θ ≈ 105°` C-mouth concavity as the hydrodynamic capture optimum (`3–4` daughter generations).
+* **How the 3 Equal Pillars Add Up (`18.5 + 32.0 + 31.1 = 81.6 / 100 pts = 81.6% Overall`):**
+  * **3-Pillar Composite Score: `(55.6% + 96.0% + 93.3%) / 3 = 81.6%`**
+  * **On Empirical Phenomena & Structural Mathematical Free Lunches (`D + P_structural`): `81.6 / 88.3 pts = 92.4% RIGHT!`**
+  * **On Strong Dualist "Non-Physical Ingression" (`P_dualist`): `0.0 / 11.7 pts = 0.0% NEEDED!`**
 
 ---
 
